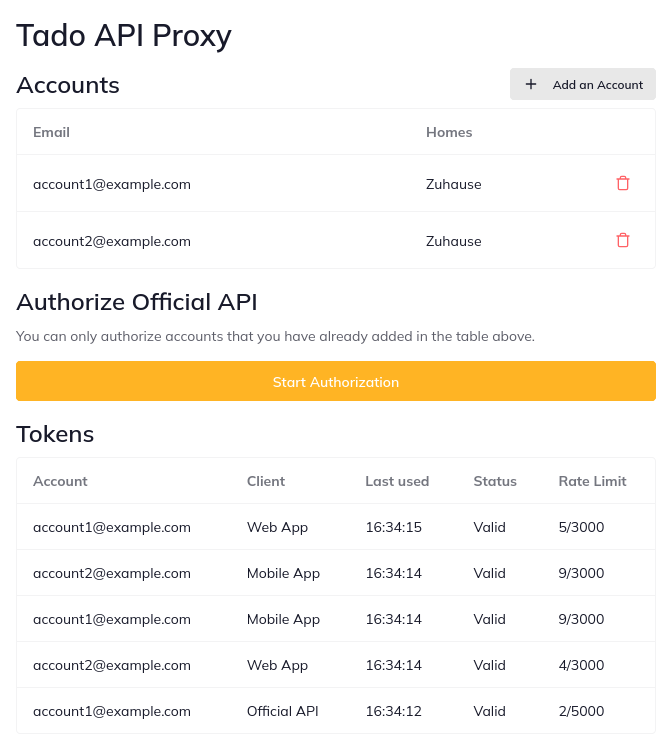
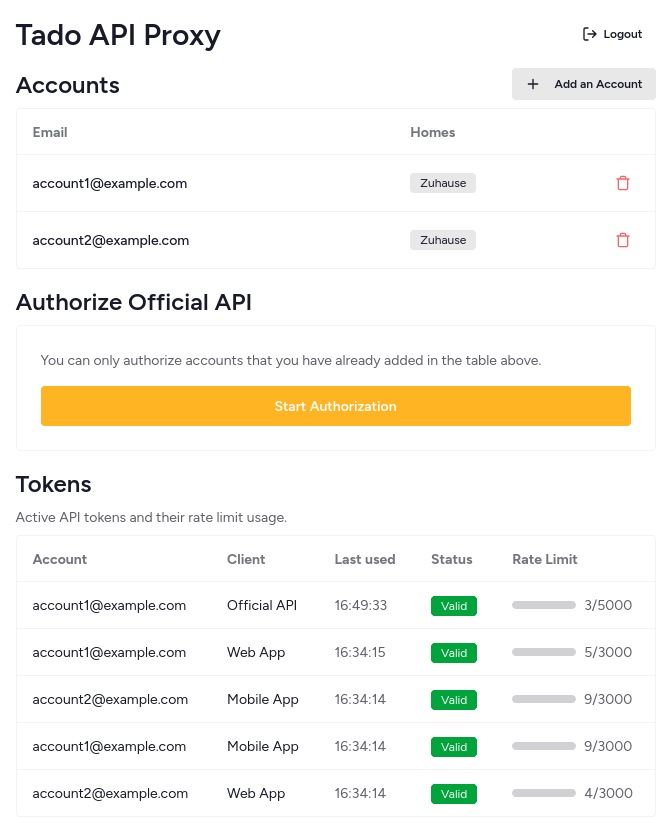
improve frontend ux

diff --git a/web/src/lib/components/device-code/device-code.svelte b/web/src/lib/components/device-code/device-code.svelte
@@ -57,63 +57,66 @@
 
 <div class="flex flex-col gap-2">
 	<h2 class="text-2xl font-semibold">Authorize Official API</h2>
-	<p class="mb-2 text-sm text-base-content/70">
-		You can only authorize accounts that you have already added in the table above.
-	</p>
 
-	<form class="flex flex-col gap-4" onsubmit={submit}>
-		{#if supportedClients.length > 1}
-			<div class="flex flex-col gap-2">
-				<label for="client" class="label">Select Client</label>
-				<select id="client" class="select w-full" bind:value={client}>
-					{#each supportedClients as c}
-						<option value={c.id}>{c.name}</option>
-					{/each}
-				</select>
-			</div>
-		{/if}
+	<div class="card border border-base-content/5 bg-base-100">
+		<div class="card-body">
+			<p class="text-sm text-base-content/70">
+				You can only authorize accounts that you have already added in the table above.
+			</p>
 
-		<button
-			type="submit"
-			class="btn btn-primary"
-			disabled={status === 'loading' || currentCode?.status === 'pending'}
-		>
-			{#if status === 'loading'}
-				<span class="loading loading-spinner"></span>
-				Starting Authorization...
-			{:else if currentCode?.status === 'pending'}
-				<span class="loading loading-spinner"></span>
-				Waiting for Authorization...
-			{:else}
-				Start Authorization
-			{/if}
-		</button>
+			<form class="mt-2 flex flex-col gap-4" onsubmit={submit}>
+				{#if supportedClients.length > 1}
+					<div class="flex flex-col gap-2">
+						<label for="client" class="label">Select Client</label>
+						<select id="client" class="select w-full" bind:value={client}>
+							{#each supportedClients as c}
+								<option value={c.id}>{c.name}</option>
+							{/each}
+						</select>
+					</div>
+				{/if}
 
-		{#if currentCode?.status === 'pending'}
-			<p class="text-sm text-success">
-				An authorization is already in progress. Please complete it in the opened window or <a
-					href={currentCode.verificationURI}
-					target="_blank"
-					class="underline"
+				<button
+					type="submit"
+					class="btn btn-primary"
+					disabled={status === 'loading' || currentCode?.status === 'pending'}
 				>
-					open it again
-				</a>.
-			</p>
-		{:else if currentCode?.status === 'expired'}
-			<p class="text-sm text-error">
-				The previous authorization has expired. Please start a new authorization.
-			</p>
-		{:else if currentCode?.status === 'unknownAccount'}
-			<p class="text-sm text-error">
-				The account you tried to authorize does not exist in the system. Please add the account
-				first.
-			</p>
-		{/if}
+					{#if status === 'loading'}
+						<span class="loading loading-spinner"></span>
+						Starting Authorization...
+					{:else if currentCode?.status === 'pending'}
+						<span class="loading loading-spinner"></span>
+						Waiting for Authorization...
+					{:else}
+						Start Authorization
+					{/if}
+				</button>
 
-		{#if status === 'error'}
-			<p class="text-sm text-error">
-				An error occurred while starting the authorization. Please try again.
-			</p>
-		{/if}
-	</form>
+				{#if currentCode?.status === 'pending'}
+					<div class="alert alert-success">
+						<span>
+							Authorization in progress. Complete it in the opened window or
+							<a href={currentCode.verificationURI} target="_blank" class="font-medium underline">
+								open it again
+							</a>.
+						</span>
+					</div>
+				{:else if currentCode?.status === 'expired'}
+					<div class="alert alert-warning">
+						<span>The previous authorization has expired. Please start a new one.</span>
+					</div>
+				{:else if currentCode?.status === 'unknownAccount'}
+					<div class="alert alert-error">
+						<span>The account does not exist in the system. Please add it first.</span>
+					</div>
+				{/if}
+
+				{#if status === 'error'}
+					<div class="alert alert-error">
+						<span>An error occurred while starting the authorization. Please try again.</span>
+					</div>
+				{/if}
+			</form>
+		</div>
+	</div>
 </div>

diff --git a/web/src/pages/login.svelte b/web/src/pages/login.svelte
@@ -17,22 +17,42 @@
 	}
 </script>
 
-<p class="text-sm">Please log in with your administrator account to manage the Tado API Proxy.</p>
+<div class="card border border-base-content/5 bg-base-100">
+	<div class="card-body">
+		<p class="text-sm text-base-content/70">
+			Please log in with your administrator account to manage the Tado API Proxy.
+		</p>
 
-<form class="flex flex-col gap-4" onsubmit={submit}>
-	<div class="flex flex-col gap-2">
-		<label for="email" class="label">Email</label>
-		<input type="email" class="input w-full" placeholder="example@mail.com" bind:value={email} />
+		<form class="mt-2 flex flex-col gap-4" onsubmit={submit}>
+			<div class="flex flex-col gap-2">
+				<label for="email" class="label">Email</label>
+				<input
+					type="email"
+					id="email"
+					class="input w-full"
+					placeholder="example@mail.com"
+					bind:value={email}
+				/>
+			</div>
+
+			<div class="flex flex-col gap-2">
+				<label for="password" class="label">Password</label>
+				<input
+					type="password"
+					id="password"
+					class="input w-full"
+					placeholder="Your password"
+					bind:value={password}
+				/>
+			</div>
+
+			<button type="submit" class="btn btn-primary" disabled={!email || !password}>Login</button>
+
+			{#if error}
+				<div class="alert alert-error">
+					<span>{error}</span>
+				</div>
+			{/if}
+		</form>
 	</div>
-
-	<div class="flex flex-col gap-2">
-		<label for="password" class="label">Password</label>
-		<input type="password" class="input w-full" placeholder="Your password" bind:value={password} />
-	</div>
-
-	<button type="submit" class="btn" disabled={!email || !password}>Login</button>
-
-	{#if error}
-		<p class="text-error">{error}</p>
-	{/if}
-</form>
+</div>

diff --git a/web/src/lib/components/accounts-table/accounts-table-row.svelte b/web/src/lib/components/accounts-table/accounts-table-row.svelte
@@ -9,18 +9,23 @@
 </script>
 
 <tr>
-	<td>{account.email}</td>
+	<td class="font-medium">{account.email}</td>
 	<td>
-		<ul>
-			{#each homes as home}
-				<li>{home?.name}</li>
-			{/each}
-		</ul>
+		{#if homes.length > 0}
+			<div class="flex flex-wrap gap-1">
+				{#each homes as home}
+					<span class="badge badge-ghost badge-sm">{home?.name}</span>
+				{/each}
+			</div>
+		{:else}
+			<span class="text-sm text-base-content/50">No homes</span>
+		{/if}
 	</td>
 	<td>
 		<button
 			class="btn btn-square btn-ghost btn-sm btn-error"
 			onclick={() => deleteDialog.showModal()}
+			title="Delete account"
 		>
 			<TrashIcon class="h-4 w-4" />
 		</button>
@@ -29,8 +34,11 @@
 
 <dialog class="modal" bind:this={deleteDialog}>
 	<div class="modal-box">
-		<h3 class="text-lg font-bold">Are you sure you want to delete this account?</h3>
-		<p class="py-4">This action cannot be undone.</p>
+		<h3 class="text-lg font-bold">Delete Account</h3>
+		<p class="py-4 text-base-content/70">
+			Are you sure you want to delete <strong class="text-base-content">{account.email}</strong>?
+			This action cannot be undone.
+		</p>
 
 		<div class="modal-action">
 			<button class="btn" onclick={() => deleteDialog.close()}>Cancel</button>
@@ -39,13 +47,14 @@
 				disabled={loading}
 				onclick={async () => {
 					loading = true;
-
 					await pb.collection('accounts').delete(account.id);
 					deleteDialog.close();
-
 					loading = false;
 				}}
 			>
+				{#if loading}
+					<span class="loading loading-sm loading-spinner"></span>
+				{/if}
 				Delete
 			</button>
 		</div>

diff --git a/web/src/lib/components/tokens-table/tokens-table-row.svelte b/web/src/lib/components/tokens-table/tokens-table-row.svelte
@@ -30,7 +30,26 @@
 <tr>
 	<td>{account.email}</td>
 	<td>{client.name}</td>
-	<td>{formatLastUsed(token.used)}</td>
-	<td class="capitalize">{token.status}</td>
-	<td>{ratelimitDetails.used}/{ratelimitDetails.limit}</td>
+	<td class="text-base-content/70">{formatLastUsed(token.used)}</td>
+	<td>
+		<span
+			class="badge badge-sm capitalize"
+			class:badge-success={token.status === 'valid'}
+			class:badge-error={token.status === 'invalid'}
+		>
+			{token.status}
+		</span>
+	</td>
+	<td>
+		<div class="flex items-center gap-2">
+			<progress
+				class="progress-sm progress w-16"
+				value={ratelimitDetails.used}
+				max={ratelimitDetails.limit}
+			></progress>
+			<span class="text-sm text-base-content/70">
+				{ratelimitDetails.used}/{ratelimitDetails.limit}
+			</span>
+		</div>
+	</td>
 </tr>

diff --git a/web/src/App.svelte b/web/src/App.svelte
@@ -2,6 +2,7 @@
 	import { pb } from './lib/pb';
 	import { AuthStore } from '@/lib/stores.svelte';
 	import { Home, Login } from '@/pages';
+	import LogOutIcon from '~icons/lucide/log-out';
 
 	const authStore = new AuthStore();
 	$effect(() => {
@@ -27,7 +28,15 @@
 	});
 </script>
 
-<h1 class="text-3xl font-semibold">Tado API Proxy</h1>
+<header class="flex items-center justify-between">
+	<h1 class="text-3xl font-semibold">Tado API Proxy</h1>
+	{#if authStore.isValid}
+		<button class="btn btn-ghost btn-sm" onclick={() => pb.authStore.clear()}>
+			<LogOutIcon class="h-4 w-4" />
+			Logout
+		</button>
+	{/if}
+</header>
 
 {#if !authStore.isValid}
 	<Login />

diff --git a/web/src/lib/components/tokens-table/tokens-table.svelte b/web/src/lib/components/tokens-table/tokens-table.svelte
@@ -31,6 +31,7 @@
 
 <div class="flex flex-col gap-2">
 	<h2 class="text-2xl font-semibold">Tokens</h2>
+	<p class="text-sm text-base-content/70">Active API tokens and their rate limit usage.</p>
 
 	<div class="overflow-x-auto rounded-box border border-base-content/5 bg-base-100">
 		<table class="table">
